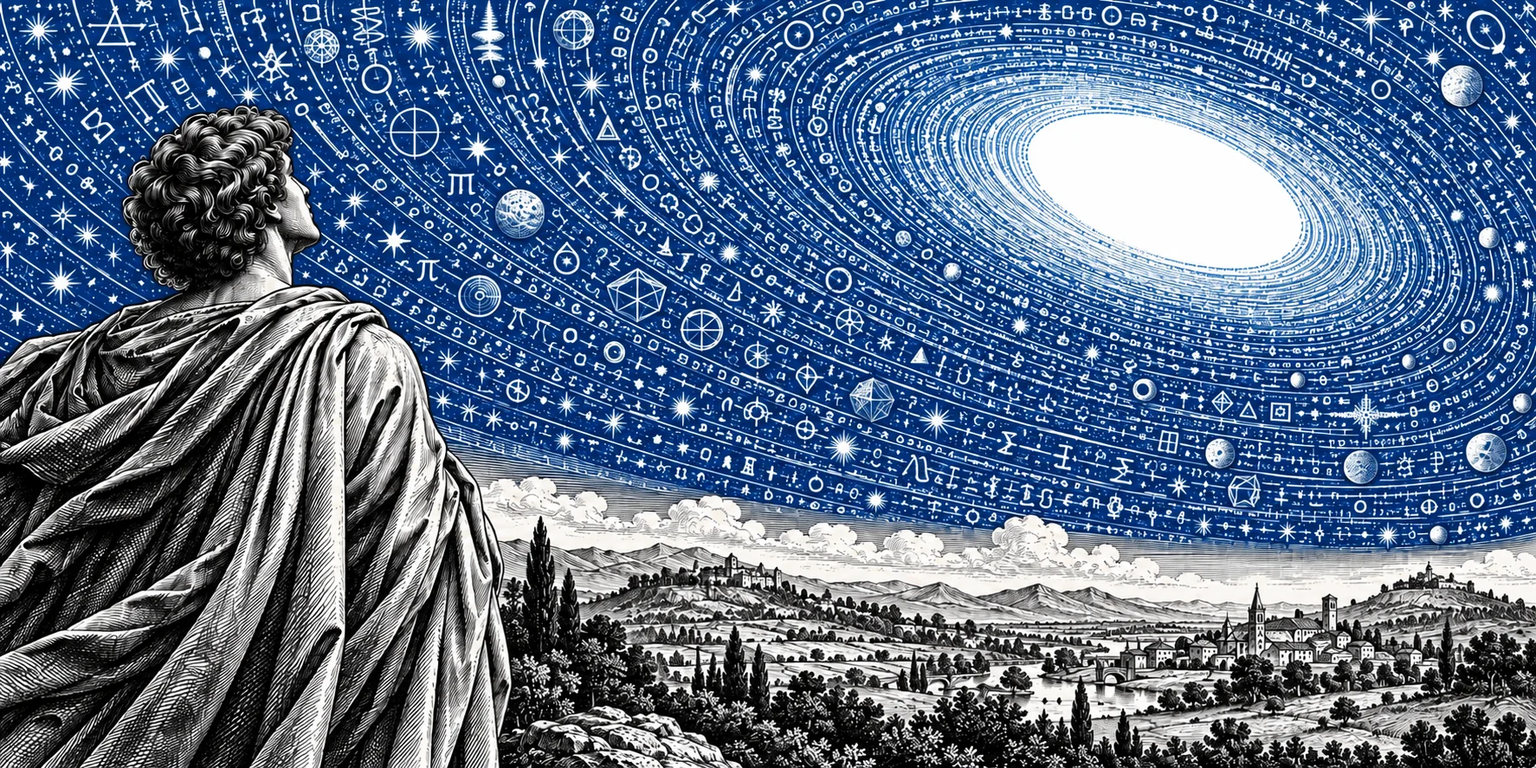
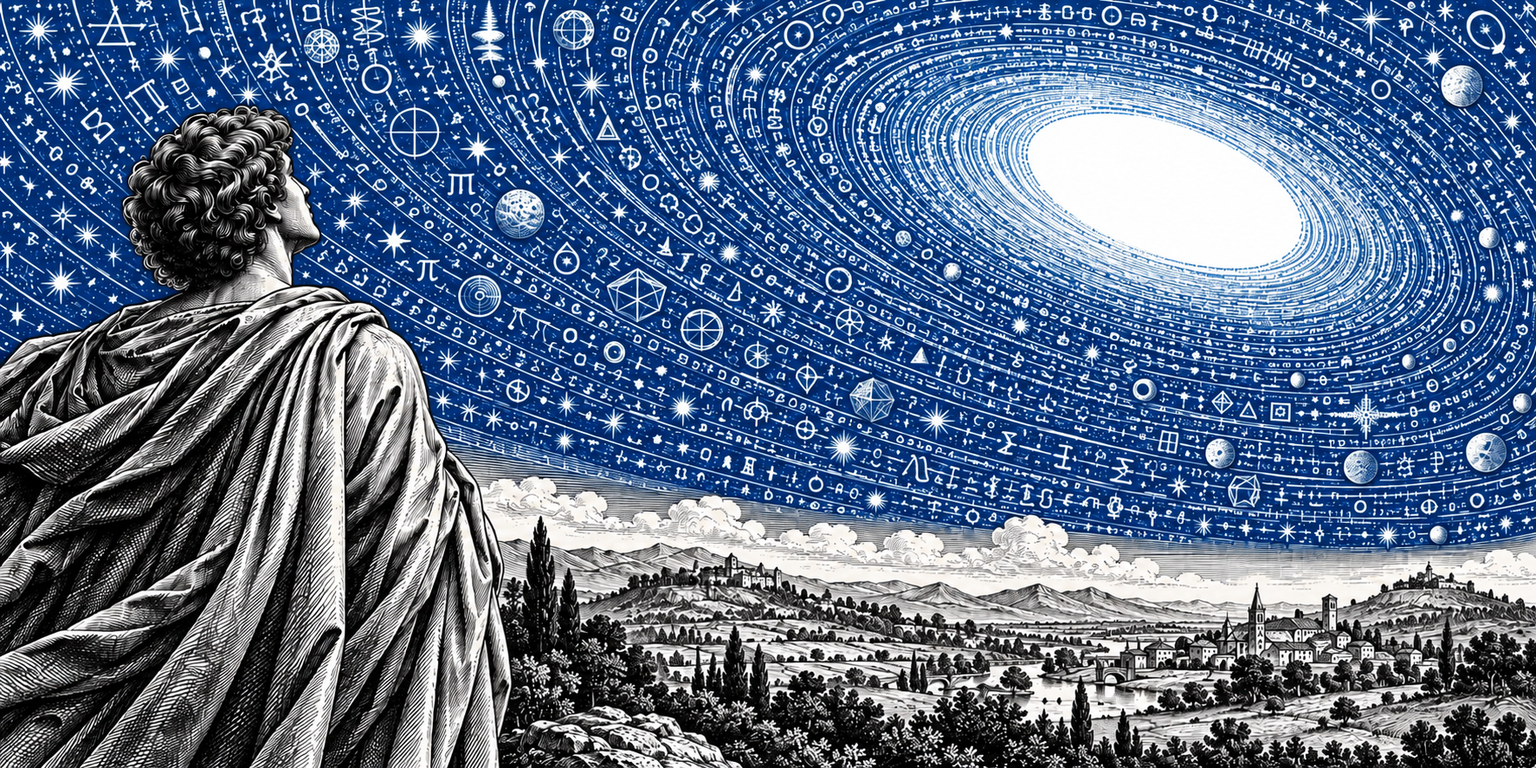
Preserve original artwork pixels with lossless delivery and theme preload

diff --git a/src/components/theme-art.tsx b/src/components/theme-art.tsx
@@ -1,21 +1,21 @@
 import Image from "next/image";
-import lightArtwork from "../../public/images/about-light.webp";
-import darkArtwork from "../../public/images/about-dark.webp";
+import { artwork } from "@/data/artwork";
 import styles from "./portfolio.module.css";
 
 const imageProps = {
   width: 1774,
   height: 887,
-  sizes: "(max-width: 767px) calc(100vw - 66px), (max-width: 900px) 55vw, 620px",
   placeholder: "blur",
+  // Preserve the lossless source pixels; project images still use optimization.
+  unoptimized: true,
 } as const;
 
 export function ThemeArt() {
   return <figure className={styles.artFigure}>
     <div className={styles.artwork}>
       {/* CSS follows the saved theme before hydration. Lazy loading avoids fetching the hidden variant. */}
-      <Image {...imageProps} src={lightArtwork} alt="A classical figure gazing at a cobalt celestial vortex above an engraved landscape" fetchPriority="high" className={styles.artLight} />
-      <Image {...imageProps} src={darkArtwork} alt="A classical figure gazing at a black-and-white celestial vortex above an engraved landscape" fetchPriority="high" className={styles.artDark} />
+      <Image {...imageProps} src={artwork.light} alt="A classical figure gazing at a cobalt celestial vortex above an engraved landscape" fetchPriority="high" className={styles.artLight} />
+      <Image {...imageProps} src={artwork.dark} alt="A classical figure gazing at a black-and-white celestial vortex above an engraved landscape" fetchPriority="high" className={styles.artDark} />
     </div>
     <figcaption><span>an idea, a few iterations, something real.</span><span aria-hidden="true">↗</span></figcaption>
   </figure>;

diff --git a/src/app/layout.tsx b/src/app/layout.tsx
@@ -6,6 +6,7 @@ import "@fontsource/dancing-script/600.css";
 import "./globals.css";
 import { Header } from "@/components/header";
 import { profile } from "@/data/portfolio";
+import { artwork } from "@/data/artwork";
 import styles from "@/components/portfolio.module.css";
 
 export const metadata: Metadata = {
@@ -17,7 +18,9 @@ export const metadata: Metadata = {
   twitter: { card: "summary", title: profile.name, description: profile.description },
 };
 
-const initializeTheme = `(function(){try{var t=localStorage.getItem('portfolio-theme');document.documentElement.dataset.theme=t==='dark'?'dark':'light'}catch(e){document.documentElement.dataset.theme='light'}})();`;
+// Use the exact same hashed URLs as ThemeArt so the visible image reuses its preload.
+const artworkUrls = JSON.stringify({ light: artwork.light.src, dark: artwork.dark.src });
+const initializeTheme = `(function(){var theme='light';try{if(localStorage.getItem('portfolio-theme')==='dark')theme='dark'}catch(e){}document.documentElement.dataset.theme=theme;if(location.pathname==='/'){var urls=${artworkUrls};var link=document.createElement('link');link.rel='preload';link.as='image';link.href=urls[theme];link.fetchPriority='high';document.head.appendChild(link)}})();`;
 
 export default function RootLayout({ children }: Readonly<{ children: React.ReactNode }>) {
   return <html lang="en" suppressHydrationWarning>

diff --git a/src/data/artwork.ts b/src/data/artwork.ts
@@ -1,0 +1,4 @@
+import lightArtwork from "../../public/images/about-light.webp";
+import darkArtwork from "../../public/images/about-dark.webp";
+
+export const artwork = { light: lightArtwork, dark: darkArtwork };

diff --git a/README.md b/README.md
@@ -12,7 +12,7 @@ A three-page portfolio inspired by the restrained typography, borders, and layou
 - Projects accept optional `liveUrl`, `sourceUrl`, and `videoUrl` values. Missing links are omitted rather than sending visitors to an empty target.
 - Striff Studio links to its live Vercel site. Its repository still reported private during implementation, so the source link is omitted until it is publicly accessible.
 - Project screenshots live in `public/images`. Replace an image and update its descriptive alternative text in the content file.
-- About uses WebP versions of your supplied artworks in `public/images/about-light.webp` (cobalt) and `about-dark.webp` (black and white). `ThemeArt` follows the header toggle and the saved theme without cropping the images. Static imports provide tiny blur previews and hashed URLs for caching; Next.js serves responsive image sizes. Only the visible theme's artwork loads initially. Replace these files to change the artwork.
+- About uses lossless WebP versions of your supplied artworks in `public/images/about-light.webp` (cobalt) and `about-dark.webp` (black and white). Both retain every decoded pixel at the original 1774 × 887 resolution. `ThemeArt` bypasses Next.js resizing and recompression for these two images; project images still use responsive optimization. Static imports provide tiny blur previews and content-hashed URLs with immutable caching. The theme initialization script preloads only the selected artwork on an initial homepage visit; the hidden variant loads when its theme is selected. Replace these files to change the artwork.
 
 Design colors are in `src/app/globals.css`. Layout and component styling are in `src/components/portfolio.module.css`. The theme toggle saves a visitor's choice in local storage; light is the initial default.
 
@@ -43,7 +43,7 @@ The local `.vercel/` project link, environment files, build output, and verifica
 - Rep Tracker and Musify: screenshots captured from your published applications.
 - Carbon Ledger: `docs/screenshots/overview.png` from your repository; it shows fictional demonstration data.
 - Striff Studio: screenshot rendered locally from your existing HTML/CSS/JavaScript repository. Temporary preview source is in ignored `artifacts/`, not the exported site.
-- About artwork: your supplied “Cobalt celestial vortex over engraved landscape” and “Ancient Gazer Beneath the Cosmic Vortex” images, compressed into WebP assets. The original files in your assets folder are unchanged.
+- About artwork: your supplied “Cobalt celestial vortex over engraved landscape” and “Ancient Gazer Beneath the Cosmic Vortex” images, losslessly encoded into WebP assets (about 2.74 MB light and 2.24 MB dark). This preserves detail but transfers more data than resized or lossy versions on a first visit. The original files in your assets folder are unchanged.
 - Inter, IBM Plex Mono, and Dancing Script: self-hosted through Fontsource packages. Page rendering does not depend on Google Fonts requests.
 
 Project copy is based on the repository READMEs. Carbon Ledger is described as evidence preparation, without claiming regulatory certification. The portfolio does not reuse the reference owner's biography, achievements, or imagery.
